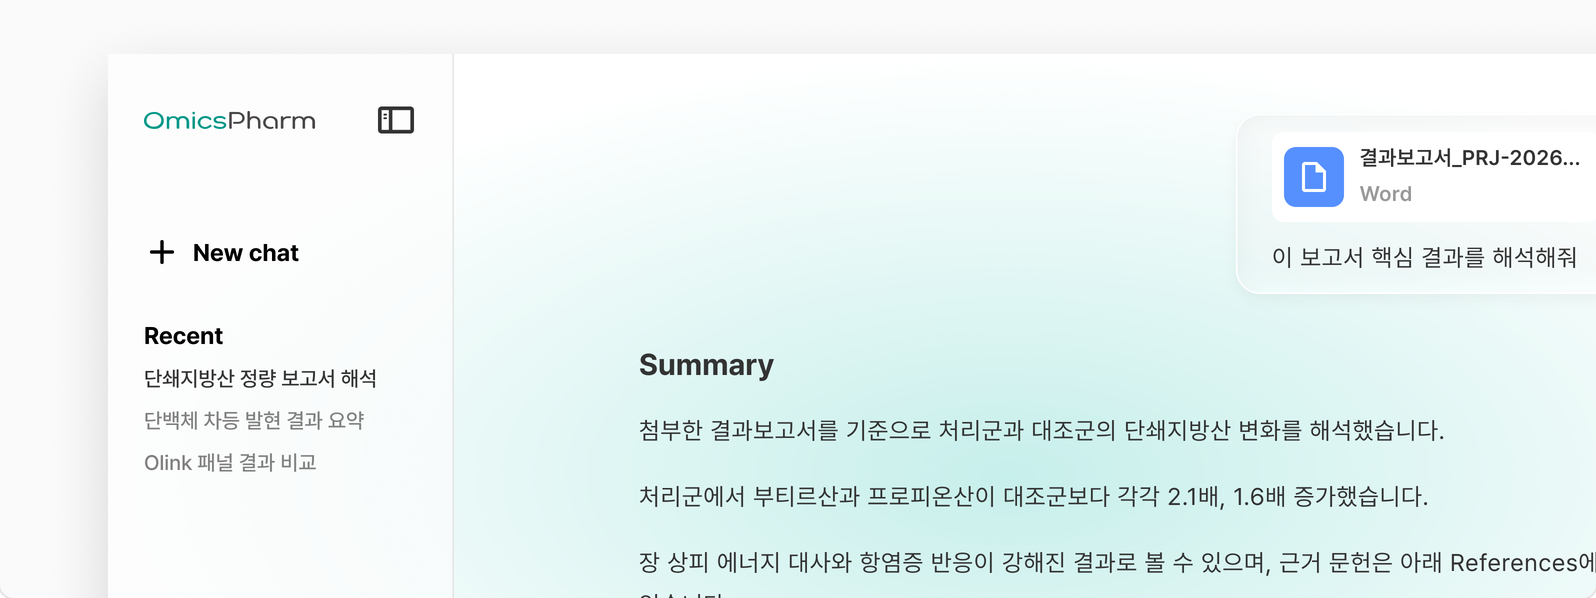
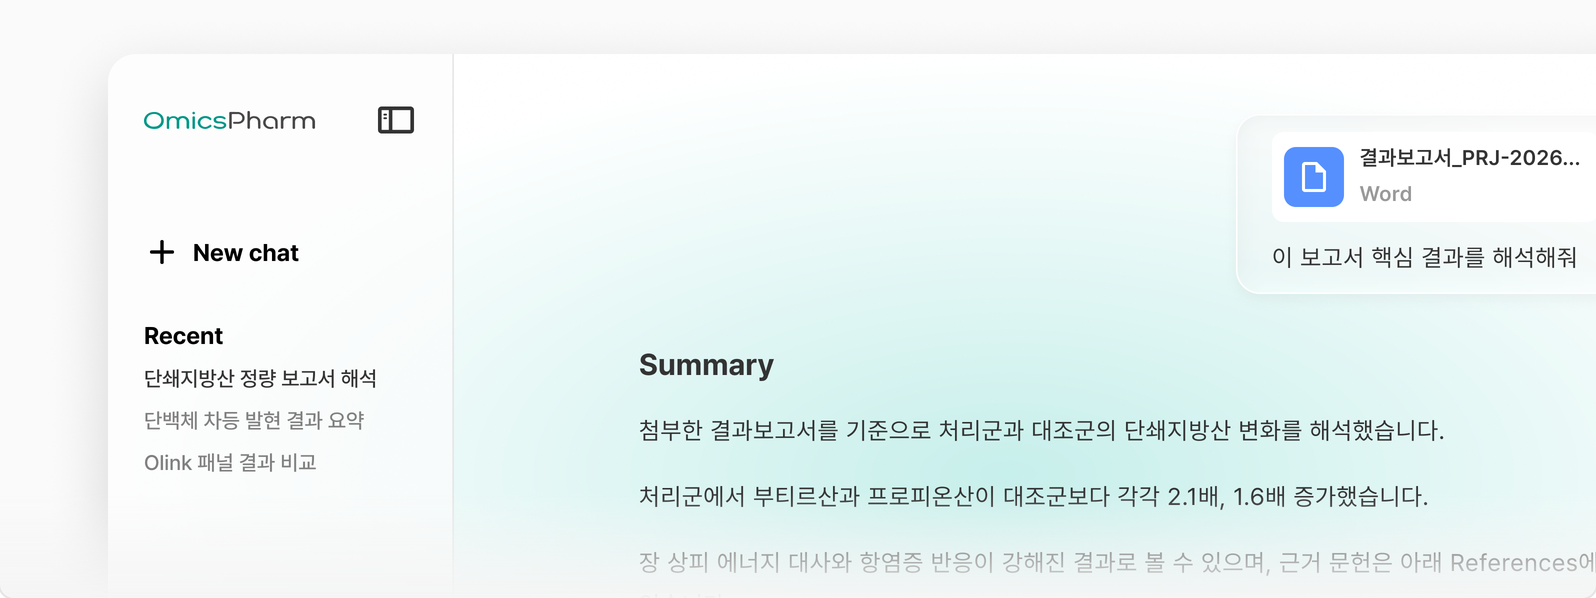
Features: 결과 해석 이미지 라운드 14 반영(Figma 재내보내기), 좁은 화면에서 네 카드 화면을 같은 비율로

Changed region(s): [[0.3991, 0.903, 1.0, 1.0], [0.3991, 0.9933, 0.4605, 1.0]]

diff --git a/index.html b/index.html
@@ -135,7 +135,7 @@
   .fb.report > img { left:calc(50% - 203px); width:406px; } .fb.matching > img { left:calc(50% - 449px); width:898px; }
   .fb .fh { position:absolute; left:31px; top:31px; display:flex; flex-direction:column; gap:12px; }
   .fb.report .fh { left:50px; top:32px; width:308px; } .fb.matching .fh { left:39px; top:39px; }
-  .fb::after { content:''; position:absolute; left:0; right:0; bottom:0; height:54px; background:linear-gradient(rgba(245,245,245,0), #f5f5f5); pointer-events:none; } /* 카드 아래 회색 그라디언트 (Figma Rectangle 34624211, 2026-11-05): 화면 이미지가 잘린 끝을 흐리게 */
+  .fb::after { content:''; position:absolute; left:0; right:0; bottom:0; height:54px; background:linear-gradient(rgba(245,245,245,0), #f5f5f5); pointer-events:none; } .fb.interpret::after { content:none; } /* 카드 아래 회색 그라디언트 (결과 해석은 Figma 내보내기에 이미 들어 있음) (Figma Rectangle 34624211, 2026-11-05): 화면 이미지가 잘린 끝을 흐리게 */
   .fb .t { display:flex; align-items:center; gap:8px; font-size:18px; font-weight:600; line-height:24px; letter-spacing:-.18px; color:#000; }
   .fb .t .ic { width:24px; height:24px; color:#000; }
   .fb .fh p { font-size:16px; line-height:22px; color:#5b617a; }
@@ -248,8 +248,10 @@
     .feat-tabs { flex-wrap:wrap; width:100%; } .feat-view { width:100%; }
     .fb-row { flex-direction:column; } .fb.interpret, .fb.support, .fb.report, .fb.matching { flex:none; aspect-ratio:auto; } /* 시안 2: 좁으면 한 줄에 하나, 제목 아래 이미지 */
     .fb .fh, .fb.report .fh, .fb.matching .fh { position:static; width:auto; padding:24px 24px 20px; }
-    .fb.interpret > img, .fb.support > img, .fb.report > img, .fb.matching > img { position:static; display:block; width:100%; max-width:100%; }
-    .fb.report > img { width:auto; margin:0 auto; }
+    /* 좁은 화면: 네 카드 화면이 같은 비율로 줄도록 Figma 카드 800 폭 기준으로 (결과 해석 = 카드 폭, 나머지는 원래 크기 비율대로, 매칭은 넘치는 양옆을 자름) */
+    .fb.interpret > img, .fb.support > img, .fb.report > img, .fb.matching > img { position:static; display:block; max-width:none; }
+    .fb.interpret > img { width:99.75%; } .fb.support > img { width:63.25%; margin:0 auto; } .fb.report > img { width:50.75%; margin:0 auto; }
+    .fb.matching > img { width:112.25%; margin-left:-6.125%; } .fb .fh p br { display:none; }
     .proj-grid { grid-template-columns:repeat(2,1fr); }
     .an-grid { grid-template-columns:repeat(2,1fr); }
   }
@@ -453,7 +455,7 @@
   <!-- 시안 2 (2026-11-05, Figma 2346:31548): 카드 그리드가 기본. 위 탭형(예전)은 ?feat=1 일 때만 -->
   <div class="feat-bento">
     <div class="fb-row">
-      <div class="fb interpret"><div class="fh"><div class="t"><span class="ic" style="--src:url(assets/main/ic-list-magnifying-glass.svg)"></span>AI 기반 결과 해석<span class="ftag beta">Beta</span></div><p>기존 분석 결과를 검색·비교해 결과가 의미하는 바를 쉽게 해석할 수 있도록 돕습니다.</p></div><img src="assets/main/features/bento/interpret.png?v=2" alt="AI 기반 결과 해석 화면 예시"></div>
+      <div class="fb interpret"><div class="fh"><div class="t"><span class="ic" style="--src:url(assets/main/ic-list-magnifying-glass.svg)"></span>AI 기반 결과 해석<span class="ftag beta">Beta</span></div><p>기존 분석 결과를 검색·비교해 결과가 의미하는 바를 쉽게 해석할 수 있도록 돕습니다.</p></div><img src="assets/main/features/bento/interpret.png?v=3" alt="AI 기반 결과 해석 화면 예시"></div>
       <div class="fb support"><div class="fh"><div class="t"><span class="ic" style="--src:url(assets/main/ic-chats.svg?v=2)"></span>AI Customer Support</div><p>프로젝트 의뢰부터 진행 상황까지 궁금한 점을 AI 챗봇이 언제든<br>빠르게 안내합니다.</p></div><img src="assets/main/features/bento/support.png" alt="AI 상담 챗봇 화면 예시"></div>
     </div>
     <div class="fb-row">
